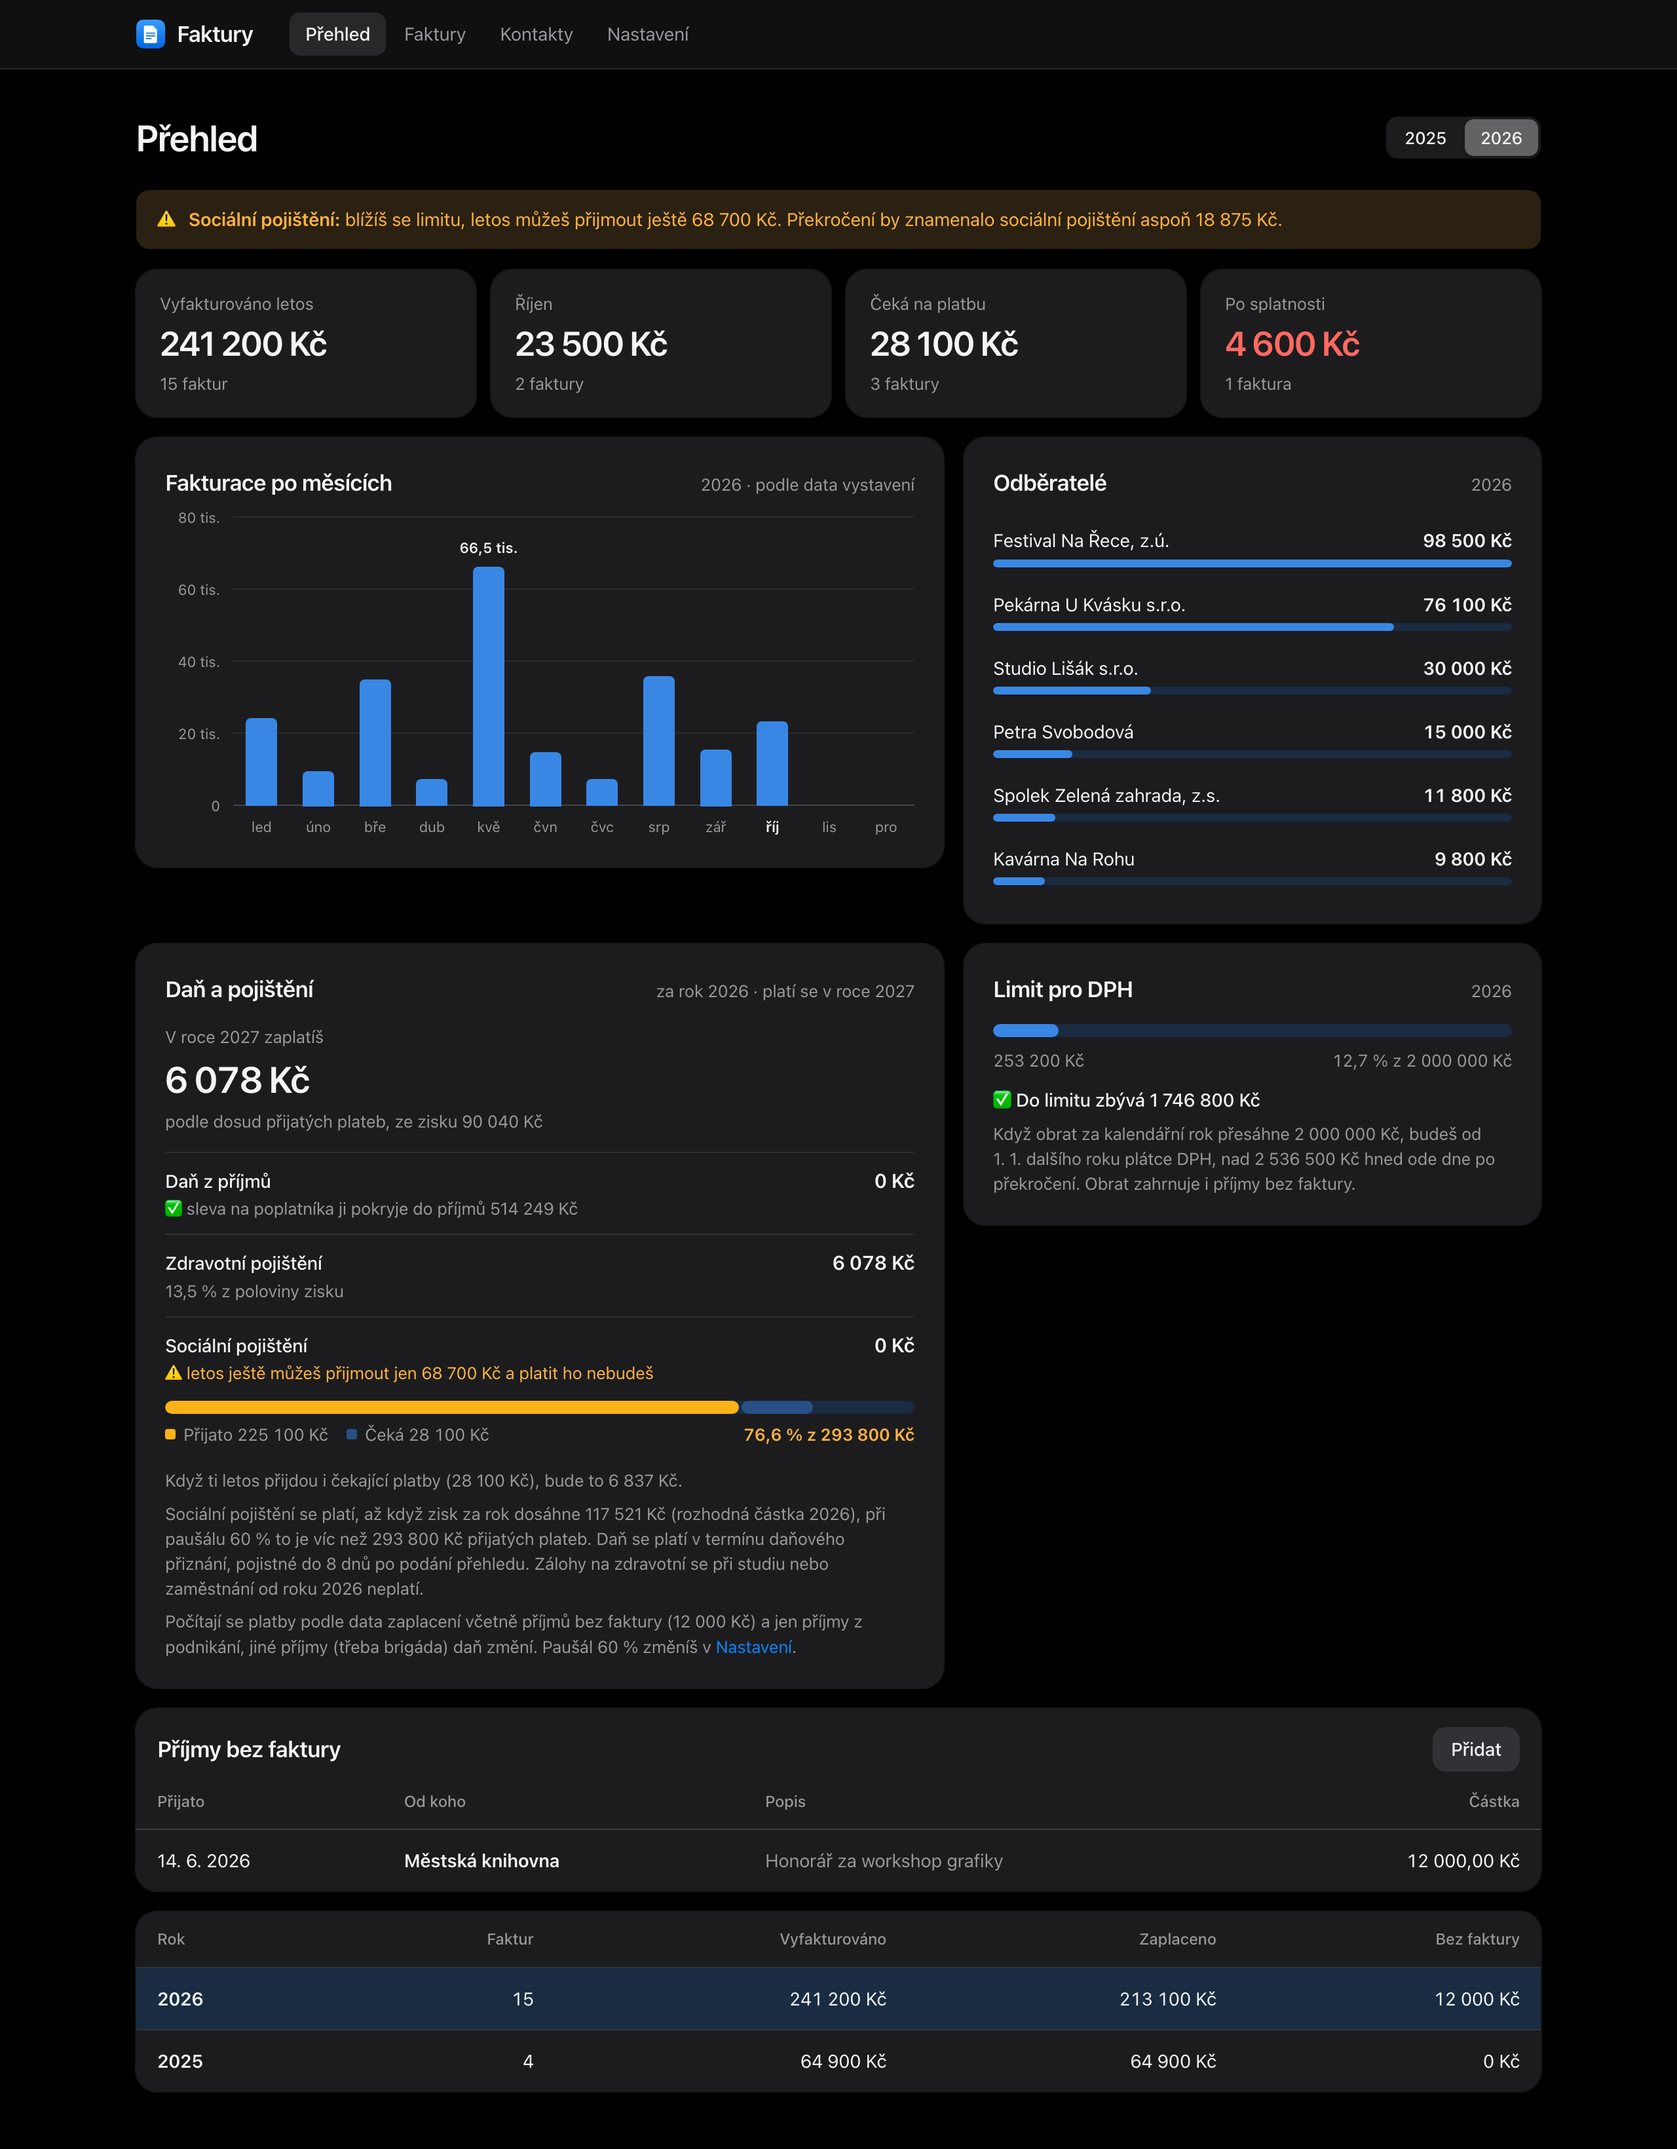
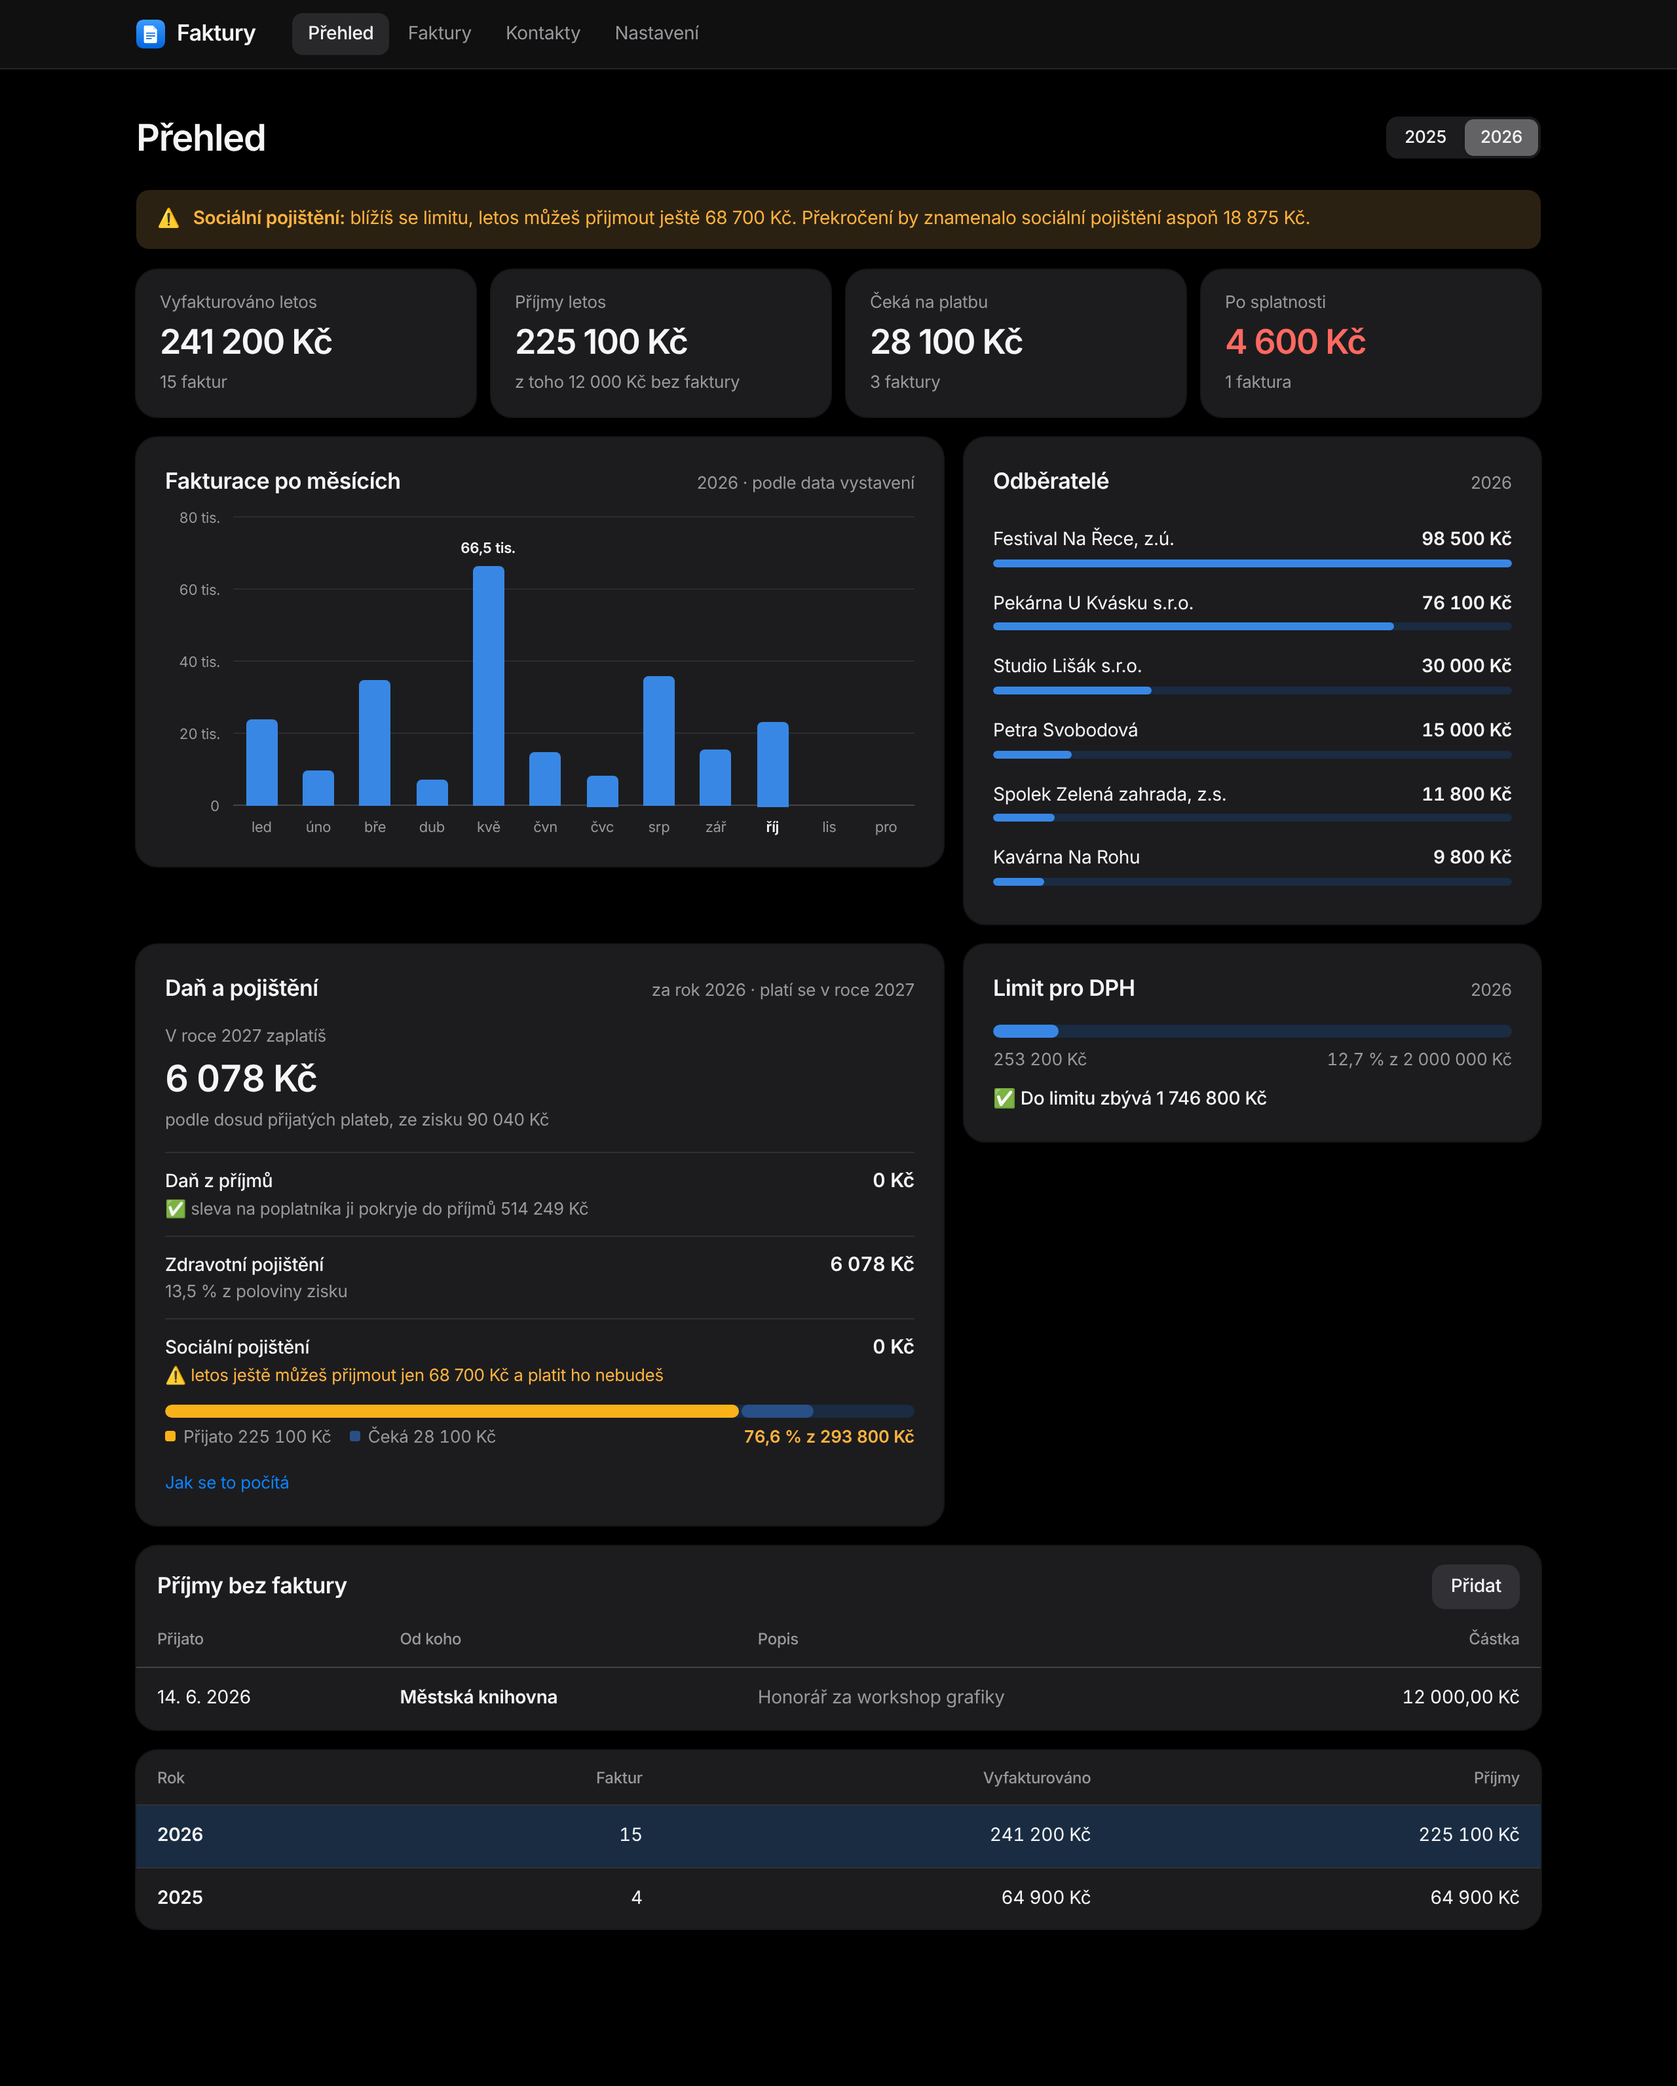
Příjmy za rok v Přehledu, méně textu v kartách, verze 1.6.0
- Místo karty s aktuálním měsícem (opakovala sloupec z grafu) je karta
  Příjmy: zaplacené faktury podle data zaplacení a příjmy bez faktury,
  stejné číslo, ze kterého se počítá daň. Nahoře jsou pořád 4 čísla.
- Tabulka let: místo sloupců Zaplaceno a Bez faktury jeden sloupec Příjmy.
- Karty Daň a pojištění a Limit pro DPH bez odstavců vysvětlivek, jen odkaz
  Jak se to počítá (docs/dane.md). Co z Přehledu zmizelo, je teď v dane.md.
- Nové snímky Přehledu v README.

Claude-Session: https://claude.ai/code/session_015vpq85aacLbhmtS9LoAMLt

diff --git a/static/app.js b/static/app.js
@@ -28,6 +28,8 @@ const HEALTH_RATE = 13.5;
 // 55 % z rozhodné částky odpovídá minimálnímu vyměřovacímu základu, takže minimum se prakticky neuplatní.
 const SOCIAL_RATE = 29.2;
 const SOCIAL_BASE = 55;
+// Podrobný popis výpočtu, Přehled ukazuje jen čísla.
+const TAX_HELP_URL = 'https://github.com/davidmalasek/faktury/blob/main/docs/dane.md';
 const EXPENSE_RATES = [
   [80, '80 % – řemeslné živnosti'],
   [60, '60 % – ostatní živnosti'],
@@ -288,7 +290,9 @@ async function viewDashboard(params) {
     const unpaid = active.filter(i => i.status === 'issued');
     const overdue = unpaid.filter(i => i.due_date < today);
     const byMonth = Array.from({ length: 12 }, (_, m) => inYear.filter(i => Number(i.issue_date.slice(5, 7)) === m + 1));
-    const monthsSoFar = isCurrent ? thisMonth + 1 : 12;
+    // Příjmy = peníze, které za rok opravdu přišly (stejné číslo, ze kterého se počítá daň).
+    const paidInYear = active.filter(i => i.status === 'paid' && (i.paid_date || '').startsWith(year));
+    const received = receivedIn(year, active, incomesInYear);
 
     if (!invoices.length && !incomes.length) {
       app.innerHTML = `
@@ -314,12 +318,12 @@ async function viewDashboard(params) {
 
     const yearRows = years.slice().reverse().map(y => {
       const list = active.filter(i => i.issue_date.startsWith(y));
-      return { y, count: list.length, total: sum(list), paid: sum(list.filter(i => i.status === 'paid')), other: sumAmount(incomes.filter(i => i.date.startsWith(y))) };
+      return { y, count: list.length, total: sum(list), received: receivedIn(y, active, incomes.filter(i => i.date.startsWith(y))) };
     });
 
     const turnover = sum(inYear) + sumAmount(incomesInYear);
     const vatLevel = limitLevel(turnover, VAT_LIMIT);
-    const alerts = isCurrent ? yearAlerts({ year, turnover, received: receivedIn(year, active, incomesInYear), pending: sum(unpaid), settings }) : [];
+    const alerts = isCurrent ? yearAlerts({ year, turnover, received, pending: sum(unpaid), settings }) : [];
     if (isCurrent && taxReturn.show) alerts.unshift(taxReturnAlert(taxReturn, { active, incomes, settings }));
 
     app.innerHTML = `
@@ -331,9 +335,9 @@ async function viewDashboard(params) {
       ${alerts.length ? `<div class="alerts">${alertList(alerts)}</div>` : ''}
       <div class="kpis">
         <div class="kpi"><div class="k">Vyfakturováno ${isCurrent ? 'letos' : `v roce ${year}`}</div><div class="v">${Fmt.money0(sum(inYear))}</div><div class="d">${plural(inYear.length, 'faktura', 'faktury', 'faktur')}</div></div>
-        ${isCurrent
-          ? `<a class="kpi" href="#/faktury?rok=${year}&mesic=${thisMonth + 1}"><div class="k">${capitalize(MONTHS[thisMonth])}</div><div class="v">${Fmt.money0(sum(byMonth[thisMonth]))}</div><div class="d">${plural(byMonth[thisMonth].length, 'faktura', 'faktury', 'faktur')}</div></a>`
-          : `<div class="kpi"><div class="k">Průměrně za měsíc</div><div class="v">${Fmt.money0(sum(inYear) / monthsSoFar)}</div><div class="d">za ${plural(monthsSoFar, 'měsíc', 'měsíce', 'měsíců')}</div></div>`}
+        <div class="kpi"><div class="k">Příjmy ${isCurrent ? 'letos' : `v roce ${year}`}</div><div class="v">${Fmt.money0(received)}</div><div class="d">${incomesInYear.length
+          ? `z toho ${Fmt.money0(sumAmount(incomesInYear))} bez faktury`
+          : plural(paidInYear.length, 'zaplacená faktura', 'zaplacené faktury', 'zaplacených faktur')}</div></div>
         <a class="kpi" href="#/faktury?rok=vse&stav=ceka"><div class="k">Čeká na platbu</div><div class="v">${Fmt.money0(sum(unpaid))}</div><div class="d">${plural(unpaid.length, 'faktura', 'faktury', 'faktur')}</div></a>
         <a class="kpi" href="#/faktury?rok=vse&stav=po-splatnosti"><div class="k">Po splatnosti</div><div class="v${overdue.length ? ' bad' : ''}">${Fmt.money0(sum(overdue))}</div><div class="d">${plural(overdue.length, 'faktura', 'faktury', 'faktur')}</div></a>
       </div>
@@ -353,7 +357,6 @@ async function viewDashboard(params) {
           <p class="limit-note ${vatLevel}">${flag(vatLevel)} ${turnover > VAT_LIMIT
             ? `Limit je překročený o ${Fmt.money0(turnover - VAT_LIMIT)}`
             : `Do limitu zbývá ${vatLevel ? 'už jen ' : ''}${Fmt.money0(VAT_LIMIT - turnover)}`}</p>
-          <p class="hint">Když obrat za kalendářní rok přesáhne 2&nbsp;000&nbsp;000&nbsp;Kč, budeš od 1.&nbsp;1. dalšího roku plátce DPH, nad 2&nbsp;536&nbsp;500&nbsp;Kč hned ode dne po překročení.${incomesInYear.length ? ' Obrat zahrnuje i příjmy bez faktury.' : ''}</p>
         </section>
         ${incomesInYear.length ? `
           <section class="table-card wide">
@@ -372,11 +375,11 @@ async function viewDashboard(params) {
           </section>` : ''}
         <section class="table-card wide">
           <table class="list">
-            <thead><tr><th>Rok</th><th class="num">Faktur</th><th class="num">Vyfakturováno</th><th class="num">Zaplaceno</th>${incomes.length ? '<th class="num">Bez faktury</th>' : ''}</tr></thead>
+            <thead><tr><th>Rok</th><th class="num">Faktur</th><th class="num">Vyfakturováno</th><th class="num">Příjmy</th></tr></thead>
             <tbody>${yearRows.map(r => `
               <tr data-href="#/prehled?rok=${r.y}" class="${r.y === year ? 'selected' : ''}">
                 <td class="strong"><a href="#/prehled?rok=${r.y}" style="color:inherit">${r.y}</a></td>
-                <td class="num">${r.count}</td><td class="num">${Fmt.money0(r.total)}</td><td class="num">${Fmt.money0(r.paid)}</td>${incomes.length ? `<td class="num">${Fmt.money0(r.other)}</td>` : ''}
+                <td class="num">${r.count}</td><td class="num">${Fmt.money0(r.total)}</td><td class="num">${Fmt.money0(r.received)}</td>
               </tr>`).join('')}
             </tbody>
           </table>
@@ -518,8 +521,7 @@ function duesCard({ year, isCurrent, active, unpaid, incomes, settings }) {
   const pending = isCurrent ? sum(unpaid) : 0;
   const total = d => d.tax + (side ? d.health + d.social : 0);
   const now = yearlyDues(received, rate, limit);
-  const later = yearlyDues(received + pending, rate, limit);
-  const crosses = later.over && !now.over;
+  const crosses = yearlyDues(received + pending, rate, limit).over && !now.over; // čekající platby by přetáhly limit
   const freeIncome = taxFreeIncome(rate);
   // Daň nemá skok jako pojištění, takže se blížící hranice ukazuje nejvýš oranžově.
   const taxLevel = !now.tax && limitLevel(received, freeIncome, pending) ? 'warn' : '';
@@ -528,7 +530,6 @@ function duesCard({ year, isCurrent, active, unpaid, incomes, settings }) {
   const rows = [['Daň z příjmů', Fmt.money0(now.tax), now.tax
     ? `${pctLabel(TAX_RATE)} ze základu ${Fmt.money0(now.base)} minus sleva na poplatníka ${Fmt.money0(TAX_CREDIT)}`
     : `${flag(taxLevel)} sleva na poplatníka ji pokryje do ${rate ? 'příjmů' : 'zisku'} ${Fmt.money0(freeIncome)}`, '', taxLevel]];
-  let socialHint = '';
   if (side) {
     rows.push(['Zdravotní pojištění', Fmt.money0(now.health), `${pctLabel(HEALTH_RATE)} z poloviny zisku`]);
     if (!limit) {
@@ -543,9 +544,6 @@ function duesCard({ year, isCurrent, active, unpaid, incomes, settings }) {
           : isCurrent ? `${flag(level)} letos ještě můžeš přijmout ${level ? 'jen ' : ''}${Fmt.money0(left)} a platit ho nebudeš`
             : `${flag(level)} pod limitem o ${Fmt.money0(left)}`,
         meter(received, maxIncome, { pending, label: 'Přijato', legend }), level]);
-      socialHint = now.over
-        ? 'Po překročení limitu se od podání přehledu ČSSZ platí i měsíční zálohy na sociální pojištění.'
-        : `Sociální pojištění se platí, až když zisk za rok dosáhne ${Fmt.money0(limit)} (rozhodná částka ${year})${rate ? `, při paušálu ${rate} % to je víc než ${Fmt.money0(maxIncome)} přijatých plateb` : ''}.`;
     }
   }
 
@@ -560,12 +558,7 @@ function duesCard({ year, isCurrent, active, unpaid, incomes, settings }) {
       <dl class="dues-list">${rows.map(([label, value, note, extra, level]) => `
         <div class="${level || ''}"><dt>${label}<span>${note}</span></dt><dd>${value}</dd>${extra ? `<dd class="extra">${extra}</dd>` : ''}</div>`).join('')}
       </dl>
-      ${total(later) > total(now) ? `<p class="hint${crosses ? ' bad' : ''}">${crosses ? `${flag('bad')} ` : ''}Když ti letos přijdou i čekající platby (${Fmt.money0(pending)}), bude to ${Fmt.money0(total(later))}${crosses ? ', protože překročíš limit pro sociální pojištění' : ''}.</p>` : ''}
-      <p class="hint">${socialHint}
-        Daň se platí v termínu daňového přiznání${side ? ', pojistné do 8 dnů po podání přehledu' : ''}.
-        ${side && Number(year) >= 2026 ? 'Zálohy na zdravotní se při studiu nebo zaměstnání od roku 2026 neplatí.' : ''}</p>
-      <p class="hint">Počítají se platby podle data zaplacení${incomes.length ? ` včetně příjmů bez faktury (${Fmt.money0(sumAmount(incomes))})` : ''} a jen příjmy z podnikání, jiné příjmy (třeba brigáda) daň změní.
-        ${rate ? `Paušál ${rate} % změníš` : 'Počítá se bez výdajů, takže skutečné částky budou nižší. Paušál nastavíš'} v&nbsp;<a href="#/nastaveni">Nastavení</a>.</p>
+      <p class="hint">${rate ? '' : 'Počítá se bez výdajů, takže skutečné částky budou nižší. Paušál nastavíš v&nbsp;<a href="#/nastaveni">Nastavení</a>. '}<a href="${TAX_HELP_URL}" target="_blank" rel="noopener">Jak se to počítá</a></p>
     </section>`;
 }
 

diff --git a/docs/dane.md b/docs/dane.md
@@ -2,10 +2,11 @@
 
 Přehled ukazuje, kolik za vybraný rok zaplatíš v dalším roce: daň z příjmů a u vedlejší činnosti i zdravotní a sociální pojištění (částka může vyjít i 0 Kč).
 Zisk se počítá jako přijaté platby (včetně příjmů bez faktury) minus výdajový paušál. Paušál se nastavuje v Nastavení.
+Přijaté platby za rok ukazuje nahoře v Přehledu číslo **Příjmy**: zaplacené faktury podle data zaplacení a příjmy bez faktury. **Vyfakturováno** vedle něj počítá jen faktury podle data vystavení, takže faktura z prosince zaplacená v lednu je ve vyfakturovaném za starý rok a v příjmech za nový.
 
-- **Daň:** 15 % ze zisku zaokrouhleného dolů na stovky minus sleva na poplatníka (30 840 Kč).
-- **Zdravotní pojištění:** 13,5 % z poloviny zisku. Při studiu nebo zaměstnání se od roku 2026 neplatí zálohy a celé pojistné se doplácí po podání přehledu.
-- **Sociální pojištění:** 29,2 % z 55 % zisku, ale jen když zisk za rok dosáhne rozhodné částky. Měřák v kartě hlídá, kolik ještě můžeš přijmout.
+- **Daň:** 15 % ze zisku zaokrouhleného dolů na stovky minus sleva na poplatníka (30 840 Kč). Platí se v termínu daňového přiznání.
+- **Zdravotní pojištění:** 13,5 % z poloviny zisku. Při studiu nebo zaměstnání se od roku 2026 neplatí zálohy a celé pojistné se doplácí do 8 dnů po podání přehledu.
+- **Sociální pojištění:** 29,2 % z 55 % zisku, ale jen když zisk za rok dosáhne rozhodné částky (2025: 111 736 Kč, 2026: 117 521 Kč, 2027: 123 992 Kč). Měřák v kartě hlídá, kolik ještě můžeš přijmout, a počítá i s paušálem (při 60 % je to v roce 2026 víc než 293 800 Kč přijatých plateb). Pojistné se doplácí do 8 dnů po podání přehledu a po překročení se od té doby platí i měsíční zálohy.
 - **DPH:** když obrat za kalendářní rok přesáhne 2 000 000 Kč, budeš plátce od 1. 1. dalšího roku. Nad 2 536 500 Kč hned ode dne po překročení.
 
 Počítá se jen s příjmy z podnikání. Jiné příjmy (třeba brigáda), skutečné výdaje a sazba daně 23 % pro velmi vysoké příjmy se nezohledňují.
